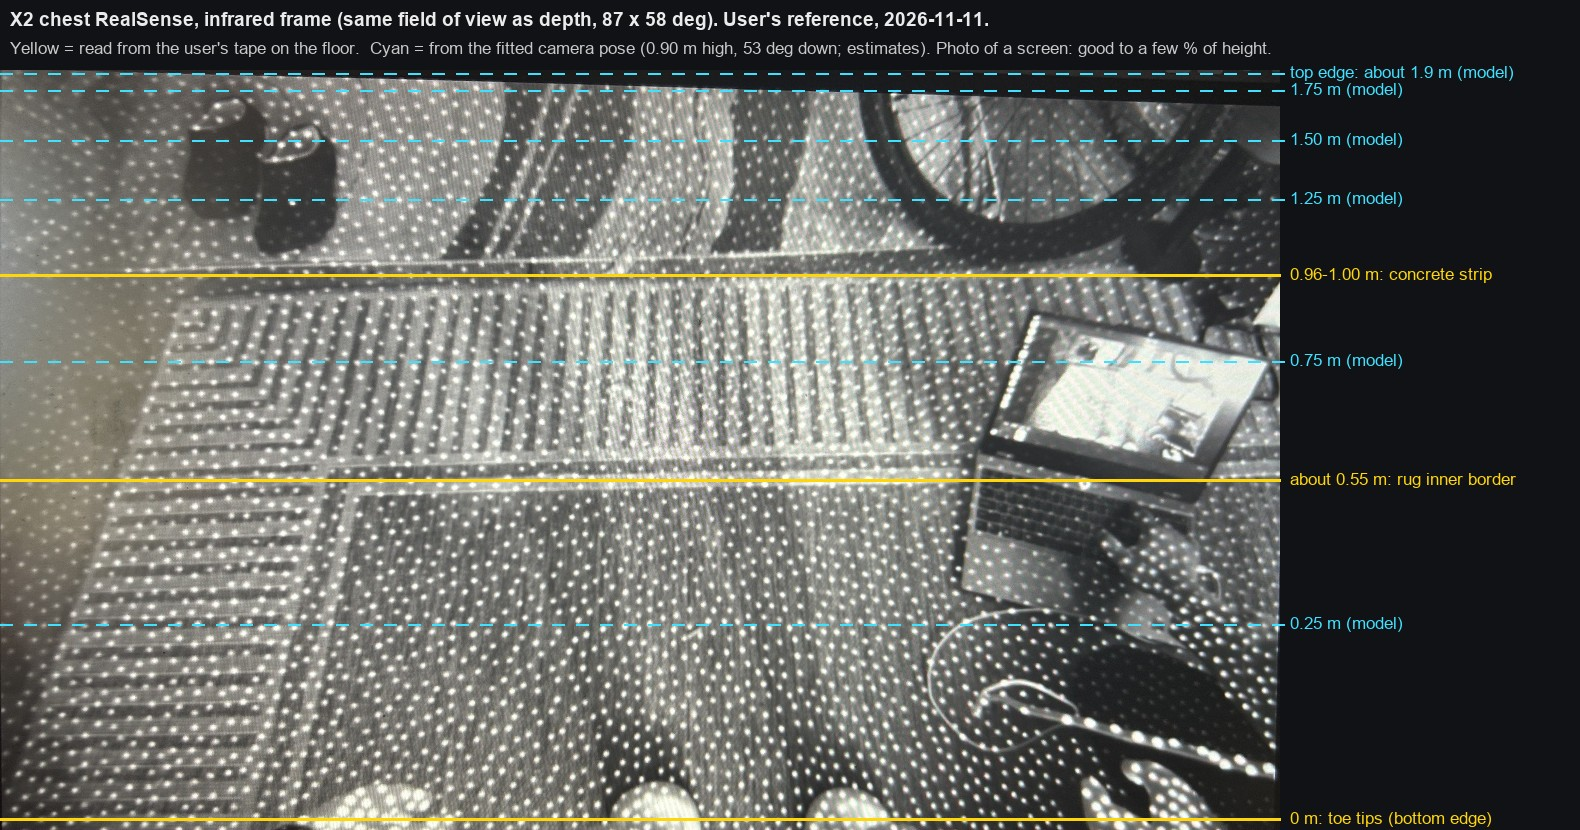
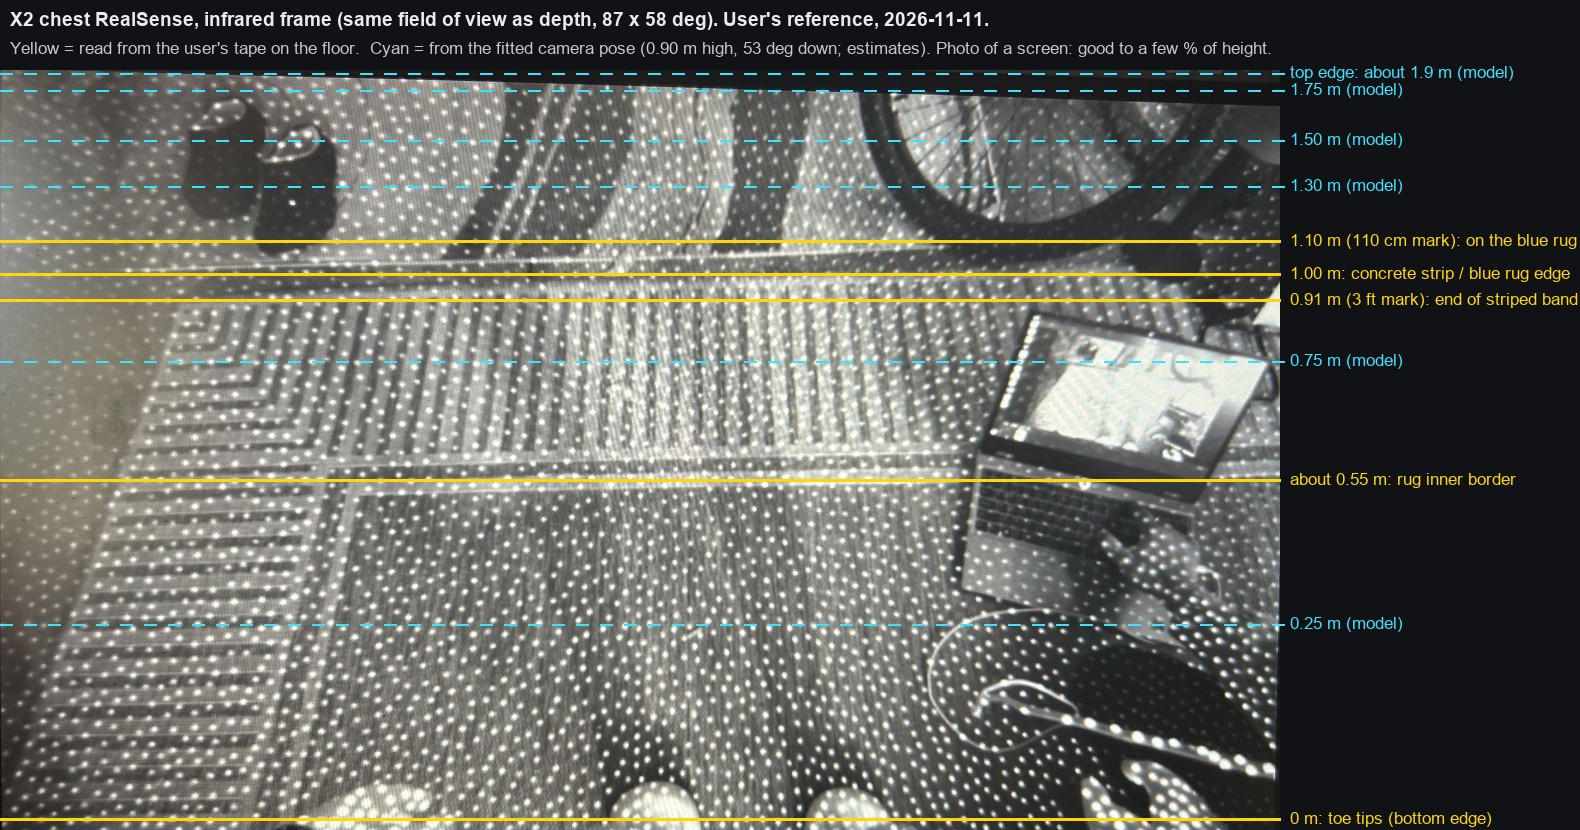
Camera reference: add the user's two circled tape marks

Changed region(s): [[0.0, 0.2711, 1.0, 0.3916], [0.0, 0.2108, 0.8994, 0.241]]

diff --git a/docs/camera/make_overlay.py b/docs/camera/make_overlay.py
@@ -58,9 +58,13 @@ def main(src, dst):
     # measured on the tape (zero at the toe line)
     line(0.985, yel, "0 m: toe tips (bottom edge)")
     line(0.54, yel, "about 0.55 m: rug inner border")
-    line(0.27, yel, "0.96-1.00 m: concrete strip")
+    # the two marks the user circled on the tape (2026-11-11): 3 ft and 110 cm. Rows placed between the
+    # visible rug edge (0.95 m) and blue-rug edge (1.00 m) with the fitted pose.
+    line(frac_from_top(0.914), yel, "0.91 m (3 ft mark): end of striped band")
+    line(0.268, yel, "1.00 m: concrete strip / blue rug edge")
+    line(frac_from_top(1.10), yel, "1.10 m (110 cm mark): on the blue rug")
     # from the fitted pose
-    for dist in (0.25, 0.75, 1.25, 1.5, 1.75):
+    for dist in (0.25, 0.75, 1.3, 1.5, 1.75):
         fr = frac_from_top(dist)
         if 0.0 < fr < 1.0:
             line(fr, cyan, f"{dist:.2f} m (model)", dash=True)

diff --git a/docs/camera/README.md b/docs/camera/README.md
@@ -13,13 +13,19 @@ stream's field of view (87 x 58 degrees), so the frame shows what depth covers. 
 |---|---|---|
 | Bottom edge | 0 m, the robot's own toe tips | seen in the frame |
 | Rug inner border | about 0.55 m | the user's tape on the floor (read from a photo, +-5 cm) |
-| Concrete strip | 0.96-1.00 m, at about 27% of the image height from the top | the user's tape |
+| End of the striped band | 0.91 m (the 3 ft mark the user circled), about 30% from the top | the user's tape |
+| Concrete strip / blue rug edge | 0.96-1.00 m, at about 27% of the image height from the top | the user's tape |
+| On the blue rug | 1.10 m (the 110 cm mark the user circled), about 22% from the top | the user's tape |
 | Top edge | about 1.9 m | fitted camera pose |
 | Dashed lines | 0.25 to 1.75 m | fitted camera pose |
 
 Fitted pose (the coordinator's estimate, to be replaced by measured values): camera 0.90 m above the floor, lens 0.12 m behind
 the toe tips, optical axis 53 degrees below horizontal. With it the 1.0 m strip falls at 26.5% from the top and the rug border
 at 50%; the photo shows about 27% and about 52-54%.
+
+The tape lies on the floor straight ahead of the robot with its zero between the feet at the toe line. The user circled
+two marks on it as references: 3 ft (0.914 m), just before the far edge of the first rug, and 110 cm, about 10 cm into the
+blue rug.
 
 ## How the tracks use it
 
